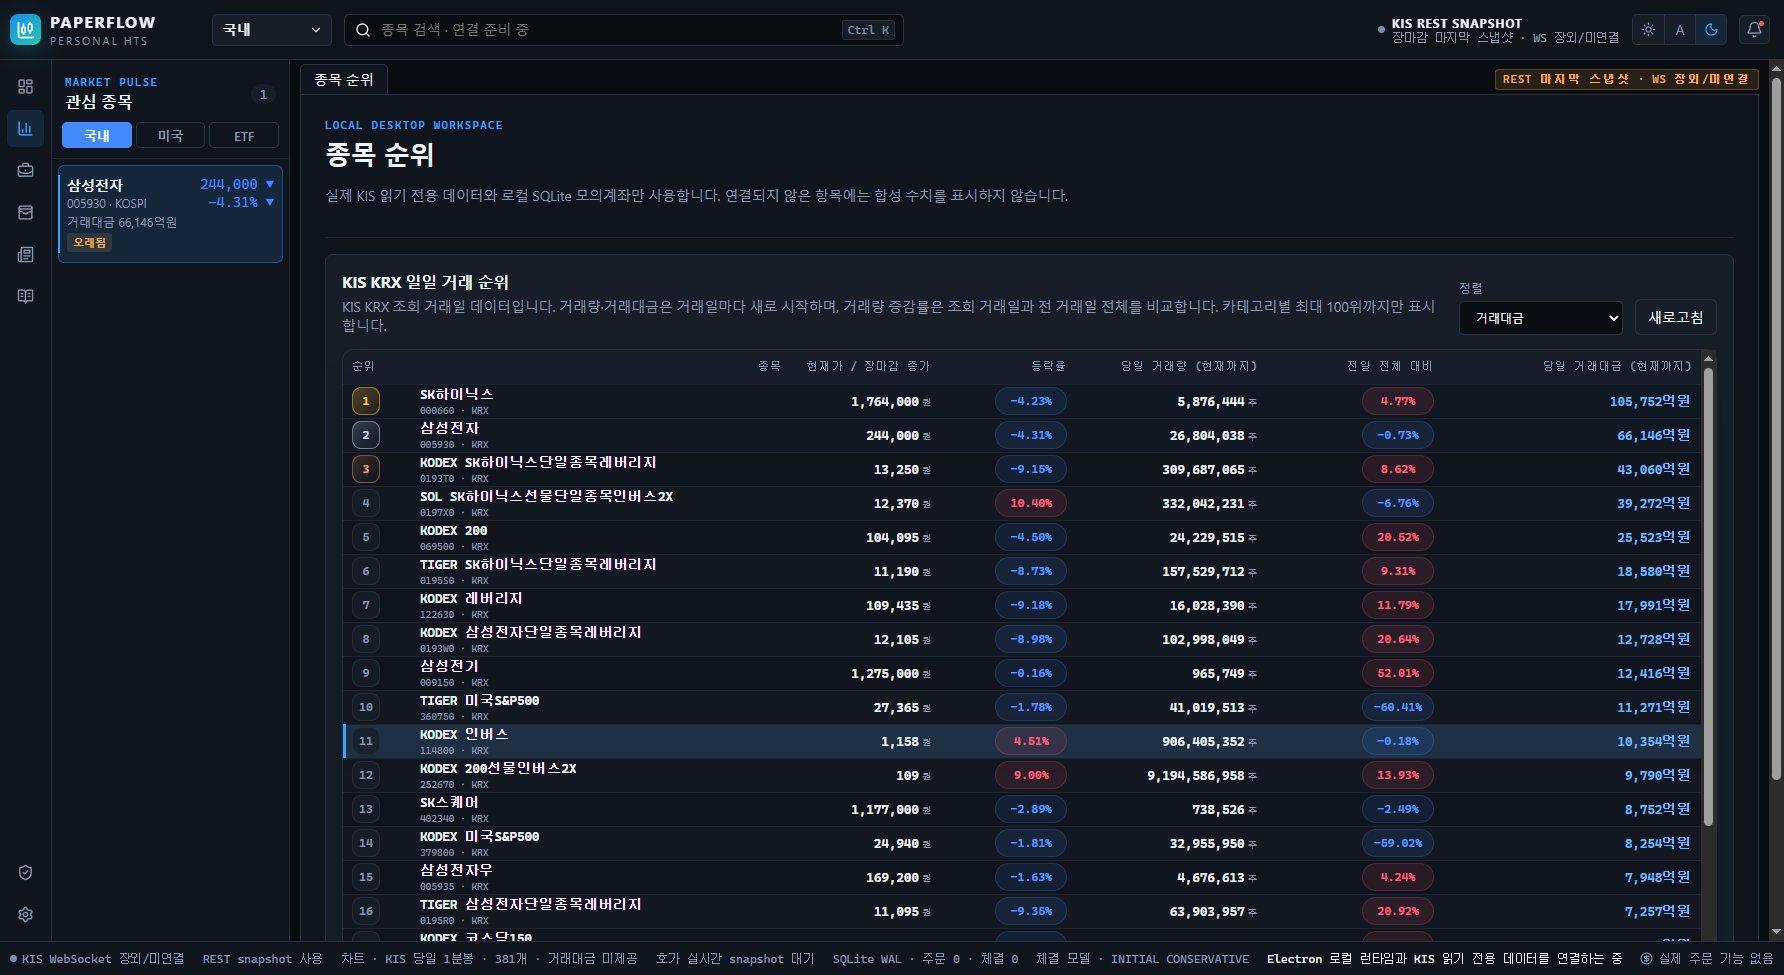
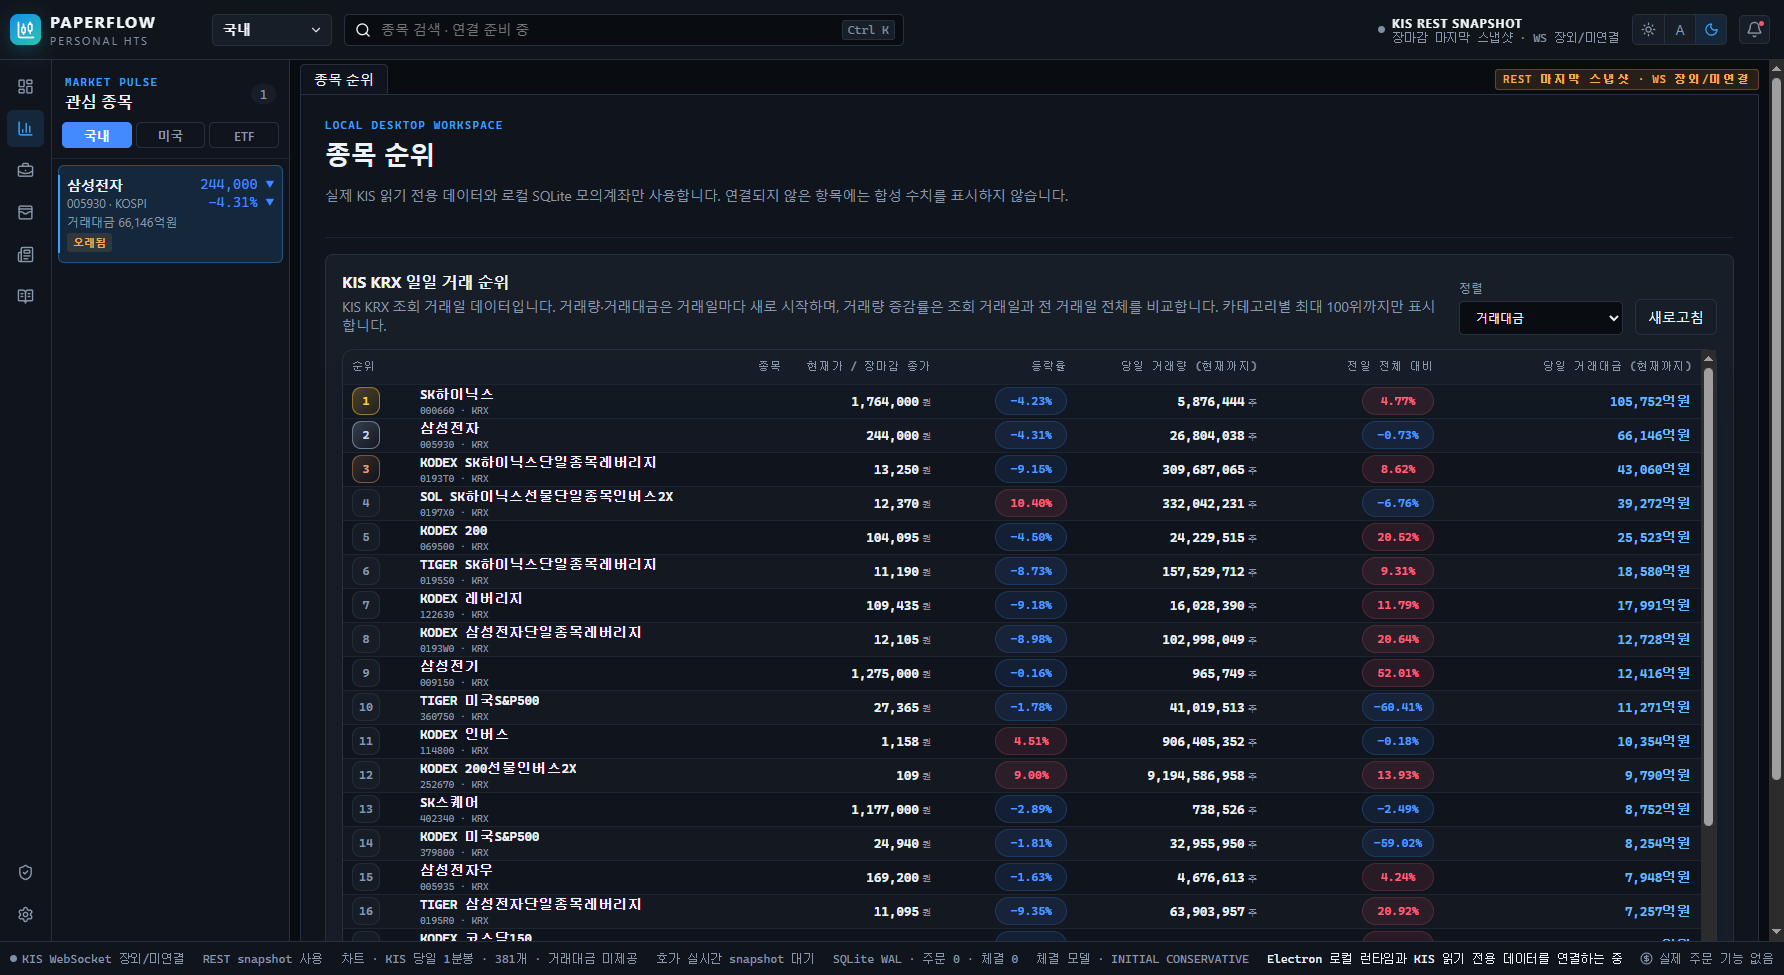
docs: showcase dense KIS candlestick chart

Changed region(s): [[0.185, 0.7385, 0.9557, 0.8]]

diff --git a/apps/desktop/src/main/main.ts b/apps/desktop/src/main/main.ts
@@ -96,6 +96,40 @@ async function capturePortfolioPage(
   await writeFile(outputPath, image.toPNG());
 }
 
+async function capturePortfolioElement(
+  window: BrowserWindow,
+  selector: string,
+  outputPath: string,
+): Promise<void> {
+  await wait(350);
+  const rect = (await window.webContents.executeJavaScript(
+    `(() => {
+      const element = document.querySelector(${JSON.stringify(selector)});
+      if (element === null) return null;
+      const bounds = element.getBoundingClientRect();
+      const x = Math.max(0, Math.floor(bounds.left));
+      const y = Math.max(0, Math.floor(bounds.top));
+      return {
+        x,
+        y,
+        width: Math.max(
+          1,
+          Math.min(Math.ceil(bounds.width), window.innerWidth - x)
+        ),
+        height: Math.max(
+          1,
+          Math.min(Math.ceil(bounds.height), window.innerHeight - y)
+        )
+      };
+    })()`,
+  )) as { x: number; y: number; width: number; height: number } | null;
+  if (rect === null) {
+    throw new Error(`Portfolio capture element not found: ${selector}`);
+  }
+  const image = await window.webContents.capturePage(rect);
+  await writeFile(outputPath, image.toPNG());
+}
+
 async function capturePortfolio(window: BrowserWindow): Promise<void> {
   const imageDirectory = resolve(process.cwd(), "docs", "images");
   await mkdir(imageDirectory, { recursive: true });
@@ -120,6 +154,11 @@ async function capturePortfolio(window: BrowserWindow): Promise<void> {
   await capturePortfolioPage(
     window,
     join(imageDirectory, "paperflow-dashboard.png"),
+  );
+  await capturePortfolioElement(
+    window,
+    ".market-chart",
+    join(imageDirectory, "paperflow-chart.png"),
   );
 
   await waitForRendererCondition(